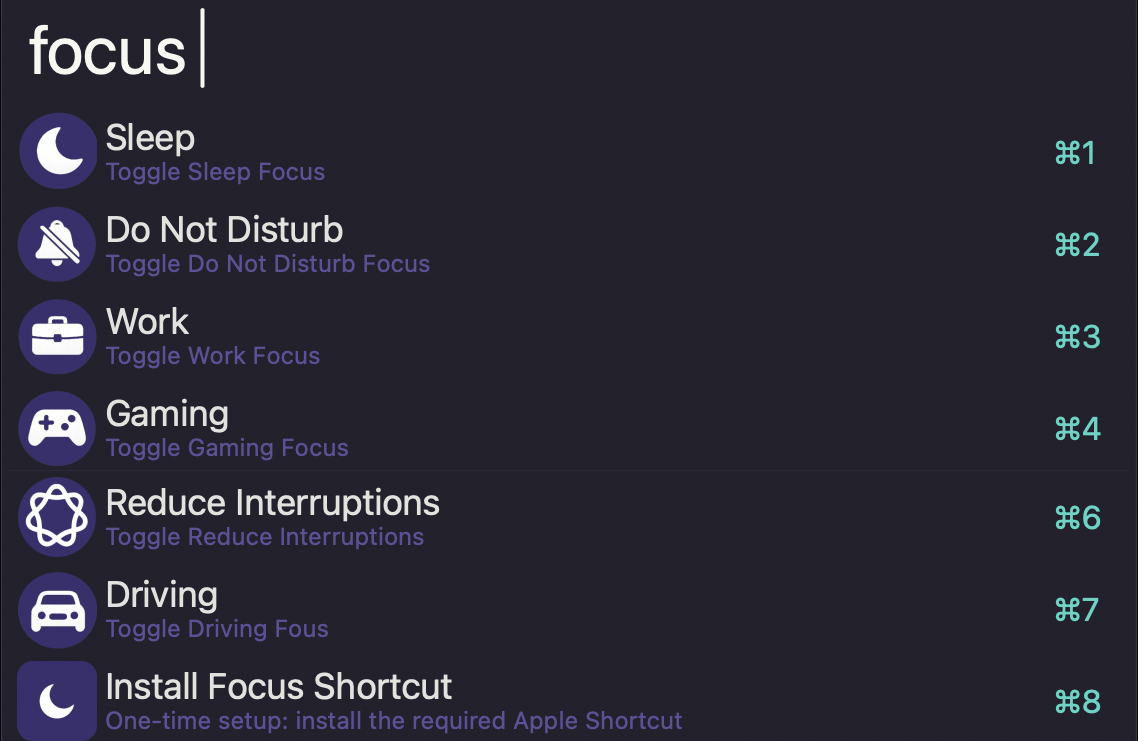
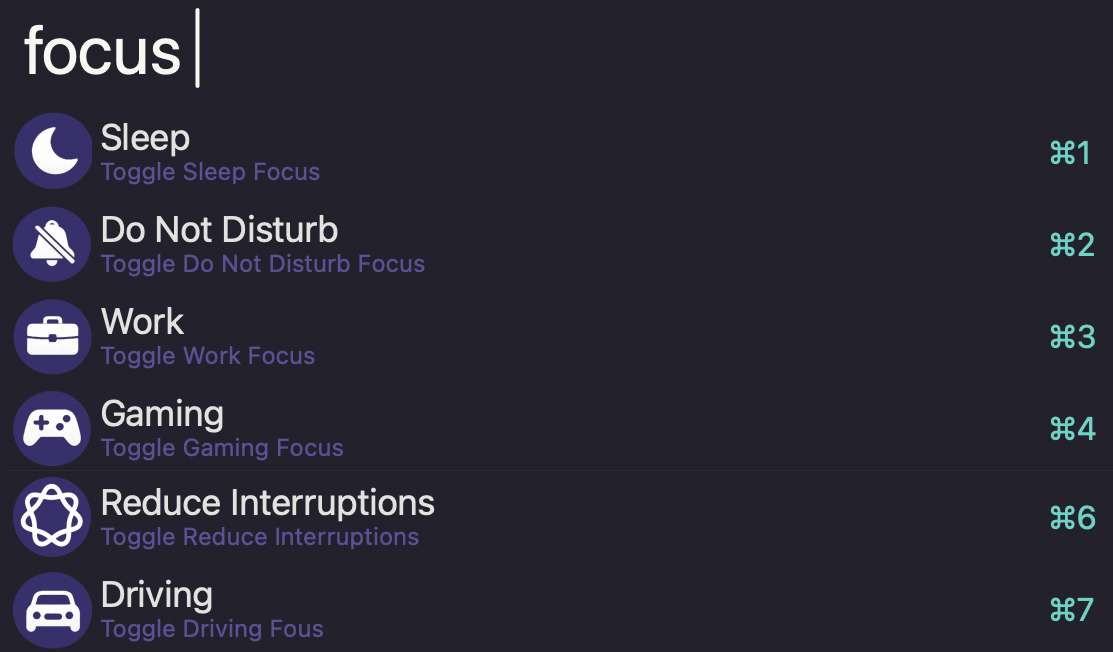
v1.0.1: improved setup flow, dialog prompt, and updated assets

diff --git a/README.md b/README.md
@@ -5,14 +5,10 @@
 This workflow uses a single Apple Shortcut named **Toggle Focus**.
 
 1. Install the Alfred workflow.
-2. Run `focus install` in Alfred (one-time setup).
-3. Shortcuts.app will open—click **Add Shortcut**.
+2. Type `focus` in Alfred.
+3. If the Shortcut isn’t installed yet, you’ll get a dialog prompt with an **Install Shortcut** button (one-time setup).
 
-Verify it’s installed by running:
-
-```sh
-shortcuts list
-```
+That’s it.
 
 ## Usage
 
